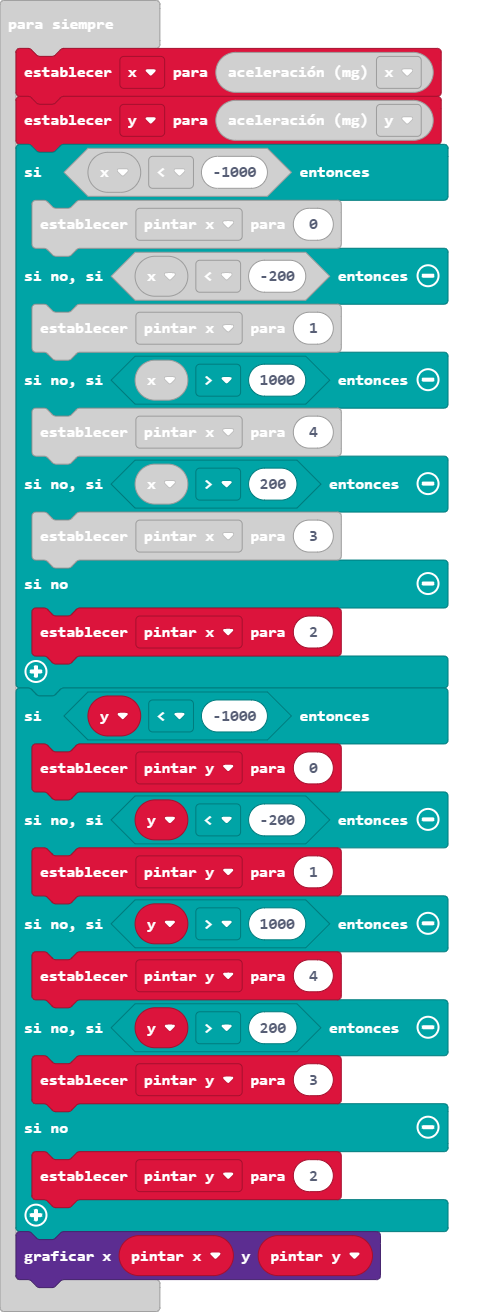
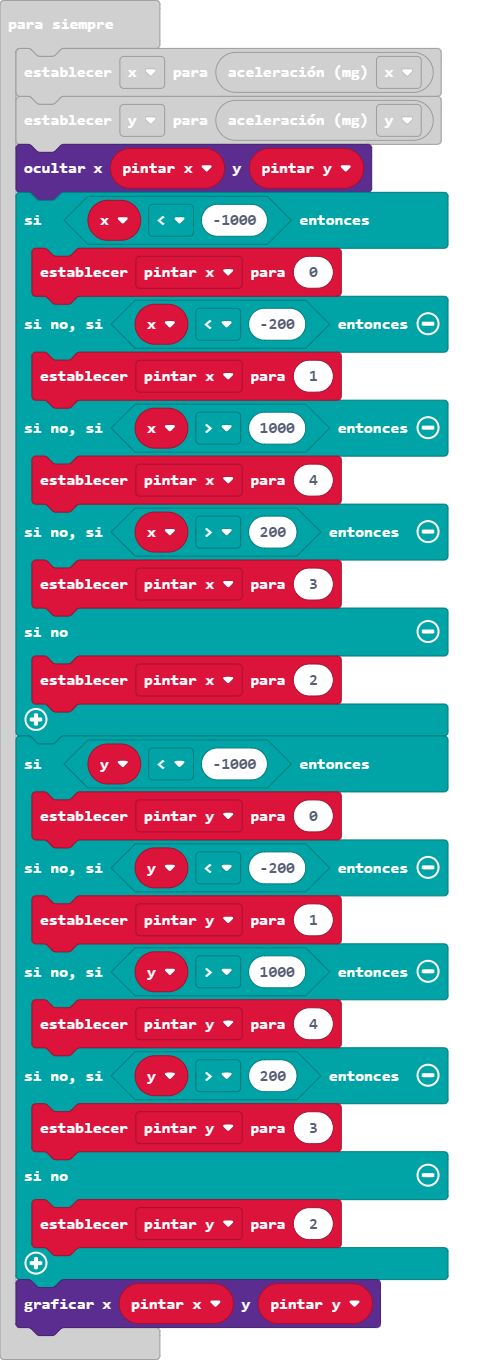
Actualizar main.blocks, main.ts

diff --git a/main.ts b/main.ts
@@ -5,6 +5,7 @@ let pintar_y = 0
 basic.forever(function () {
     x = input.acceleration(Dimension.X)
     y = input.acceleration(Dimension.Y)
+    led.unplot(pintar_x, pintar_y)
     if (x < -1000) {
         pintar_x = 0
     } else if (x < -200) {
